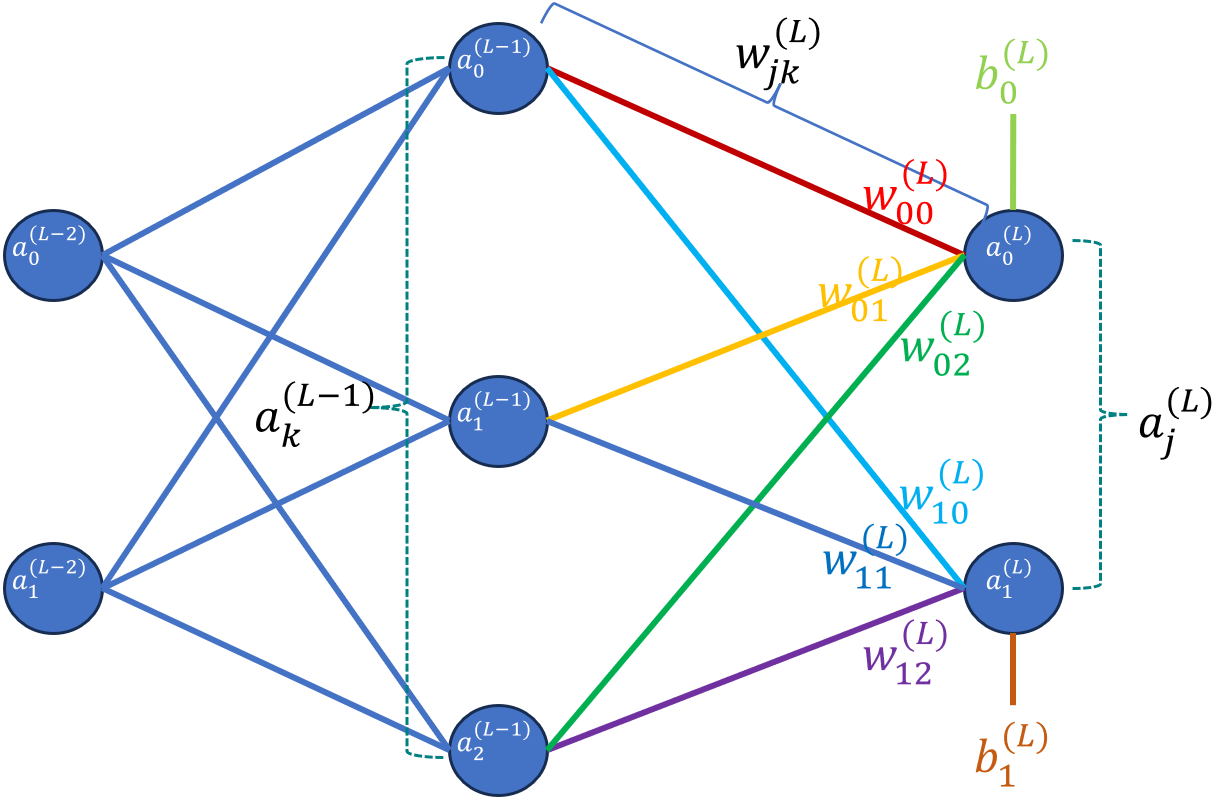
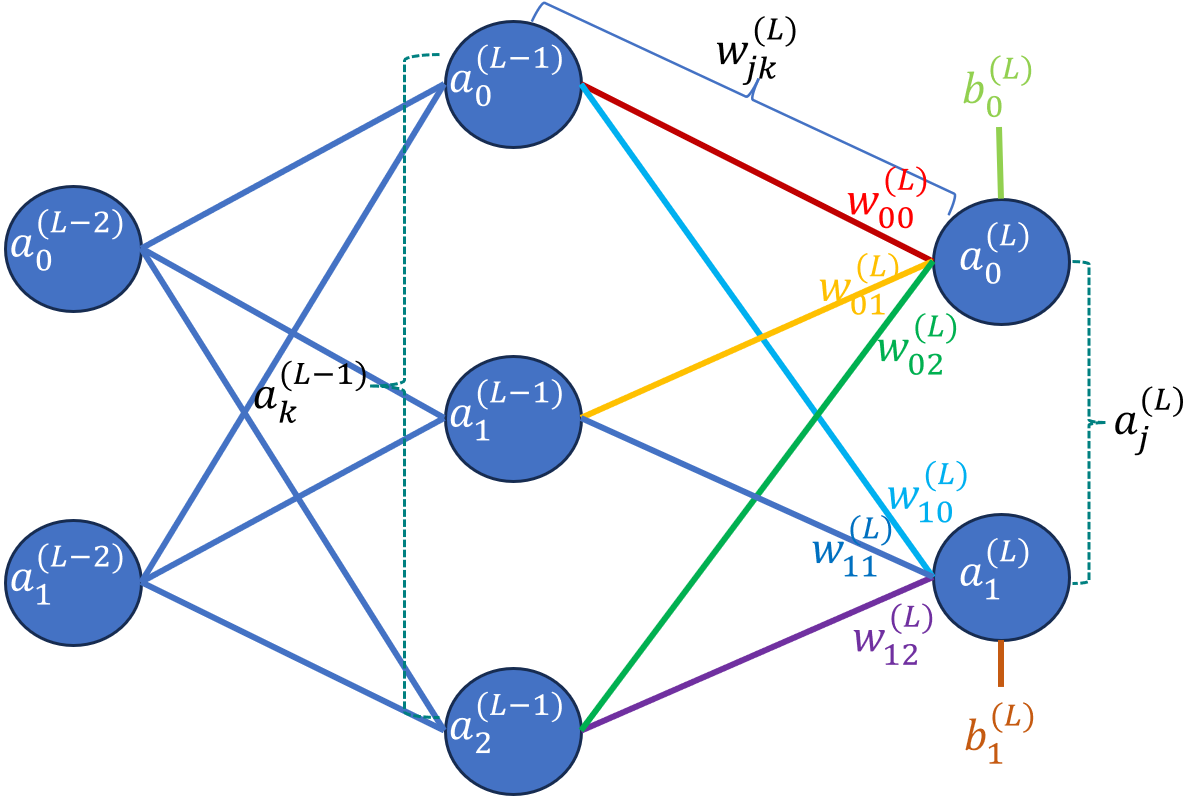
Fix equations in GD + Enlarge neuron labels

diff --git a/docs/easyNN/GradientDescent.md b/docs/easyNN/GradientDescent.md
@@ -6,7 +6,7 @@ We use gradient descent to find the best model parameters for which the change i
 
 Repeat{
 
-$\large{\theta_j := \theta_j - \alpha \frac{\partial}{\partial \theta_j} J(\theta)}$
+$$\theta_j := \theta_j - \alpha \frac{\partial}{\partial \theta_j} J(\theta)$$
 
 }
 
@@ -14,19 +14,19 @@ simultaneously update for every $j=0,...,n$.
 
 Repeat{
 
-$\large{\theta_j := \theta_j - \alpha \frac{1}{m} \sum_{i=1}^m (h_{\theta}(x^{(i)}) - y^{(i)}) x_j^{(i)}}$
+$$\theta_j := \theta_j - \alpha \frac{1}{m} \sum_{i=1}^m (h_{\theta}(x^{(i)}) - y^{(i)}) x_j^{(i)}$$
 
 }
 
 simultaneously update $\theta_j$ for every $j=0,...,n$.
 
-This can be expanded further for clarify as follows
+This can be expanded further for clarification as follows
 
-$\large{\theta_0 := \theta_0 - \alpha \frac{1}{m} \sum_{i=1}^m (h_{\theta}(x^{(i)}) - y^{(i)})}$
+$$\theta_0 := \theta_0 - \alpha \frac{1}{m} \sum_{i=1}^m (h_{\theta}(x^{(i)}) - y^{(i)})$$
 
-$\large{\theta_1 := \theta_1 - \alpha \frac{1}{m} \sum_{i=1}^m (h_{\theta}(x^{(i)}) - y^{(i)}) x_1^{(i)}}$
+$$\theta_1 := \theta_1 - \alpha \frac{1}{m} \sum_{i=1}^m (h_{\theta}(x^{(i)}) - y^{(i)}) x_1^{(i)}$$
 
-$\large{\theta_2 := \theta_2 - \alpha \frac{1}{m} \sum_{i=1}^m (h_{\theta}(x^{(i)}) - y^{(i)}) x_2^{(i)}}$
+$$\theta_2 := \theta_2 - \alpha \frac{1}{m} \sum_{i=1}^m (h_{\theta}(x^{(i)}) - y^{(i)}) x_2^{(i)}$$
 
 ...
 
@@ -86,13 +86,13 @@ GD works by iteratively adjusting the model parameters to reduce the error betwe
 
 It starts making a lot more sense, if we would simplify the GD equation and assume there is only one sample of data. The GD equation reduces to only the following
 
-$\large{\theta_j := \theta_j - \alpha (h_{\theta}(x) - y) x_j}$
+$$\theta_j := \theta_j - \alpha (h_{\theta}(x) - y) x_j$$
 
 $h_{\theta}(x) - y$ is very easily to interpret, it is the error between the estimate and the measured value. Multiplying $x_j$ with the error term serves to amplify the error term proportional to the concerned feature value and show its contribution in the estimation error. Therefore, the large the value of the feature $x_j$ the more pronounced the error would be and vice versa. However, at the same time we don't want the amplified error to change parameter $\theta_j$ too much, as it could cause convergence issues. Hence, we attenuate the proportionally amplified error by $\alpha$. The respective $\theta_j$ value is updated accordingly.
 
 Referring back to the original original equation, the following part becomes obvious
 
-$\large{\frac{1}{m} \sum_{i=1}^m (h_{\theta}(x^{(i)}) - y^{(i)}) x_j}$
+$$\frac{1}{m} \sum_{i=1}^m (h_{\theta}(x^{(i)}) - y^{(i)}) x_j$$
 
 This represents the general case when we have multiple data points. Hence, we would like to find the differences of estimates with the measured values for all the available data points. Finally, we normally them to find an average error. This gives us an average error in estimation for all the available data points that is amplified by the respective feature value.
 
